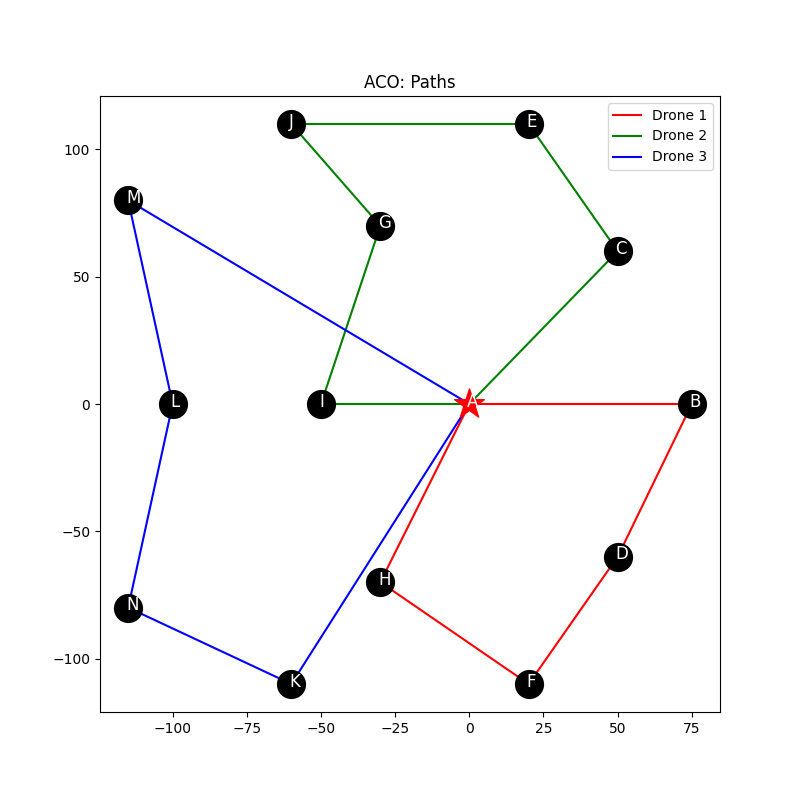
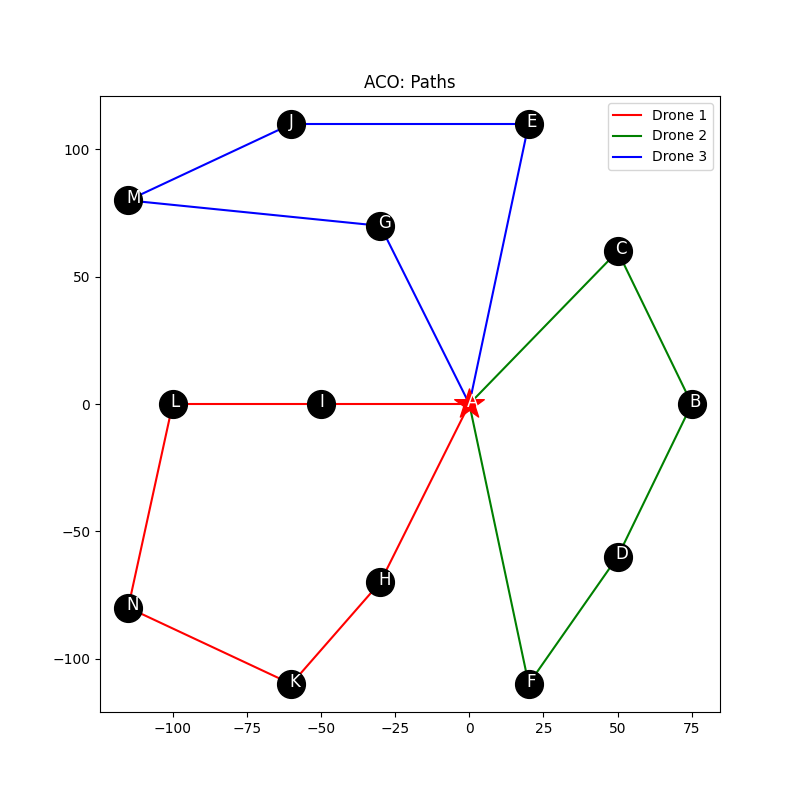
update paths with num drones

diff --git a/multi_uav_navigation.py b/multi_uav_navigation.py
@@ -108,9 +108,6 @@ if __name__ == "__main__":
     env_variant: str = "cust" if args.custom else "airsim"
     
     is_custom = args.custom
-    
-    # Results Path
-    results_root_path = os.path.join(os.getcwd(), "results", mtsp_algo, rl_algo, action_type, env_variant)
 
     # Retrieve inputs
     ## All waypoints
@@ -129,9 +126,12 @@ if __name__ == "__main__":
     vehicle_names = client.listVehicles()
     no_drones = len(vehicle_names)
     print(f"Number of drones: {no_drones}\n")
+
+    # Results Path
+    results_root_path = os.path.join(os.getcwd(), "results", mtsp_algo, f"{no_drones}_drones", rl_algo, action_type, env_variant)
     
     # Retrieve MTSP Algorithm
-    mtsp_solver: mtsp.AlgoMultiTSP = load_obj_file(os.path.join("MultiTSP", "paths", waypoint_type, f"{mtsp_algo}_best_solution.pkl"))
+    mtsp_solver: mtsp.AlgoMultiTSP = load_obj_file(os.path.join("MultiTSP", "paths", waypoint_type, f"{no_drones}_drones", f"{waypoint_type}_{no_drones}_{mtsp_algo}_best_solution.pkl"))
     
     # Visualize paths
     mtsp_solver.plot_solution(pause=5)
@@ -207,10 +207,10 @@ if __name__ == "__main__":
     print(f"Total Distance Travelled: {total_distance}")
     print(f"Total Time Elapsed: {int(mins)} min/s, {secs:.2f} sec/s")
     
-    plot_all_routes(waypoints, obstacles, drone_routes, filename=os.path.join(results_root_path, f"{waypoint_type}_drone_routes.png"))
+    plot_all_routes(waypoints, obstacles, drone_routes, filename=os.path.join(results_root_path, f"{waypoint_type}_{no_drones}_drone_routes.png"))
 
     # Save results
-    results_path = os.path.join(results_root_path, f"{waypoint_type}_results.pkl")
+    results_path = os.path.join(results_root_path, f"{waypoint_type}_{no_drones}_results.pkl")
     save_obj_file(results_path, results)
 
     # Add results to Table
@@ -239,8 +239,10 @@ if __name__ == "__main__":
 
     # Check if the slug exists in the 'Slug' column and update or append the row
     if slug in results_table["Slug"].values:
+        print("Updating existing row with slug:", slug)
         results_table.loc[results_table["Slug"] == slug, :] = pd.DataFrame([row]).values
     else:
+        print("Appending new row with slug:", slug)
         results_table = results_table.append(row, ignore_index=True)
 
     # Save the updated DataFrame back to the CSV file
